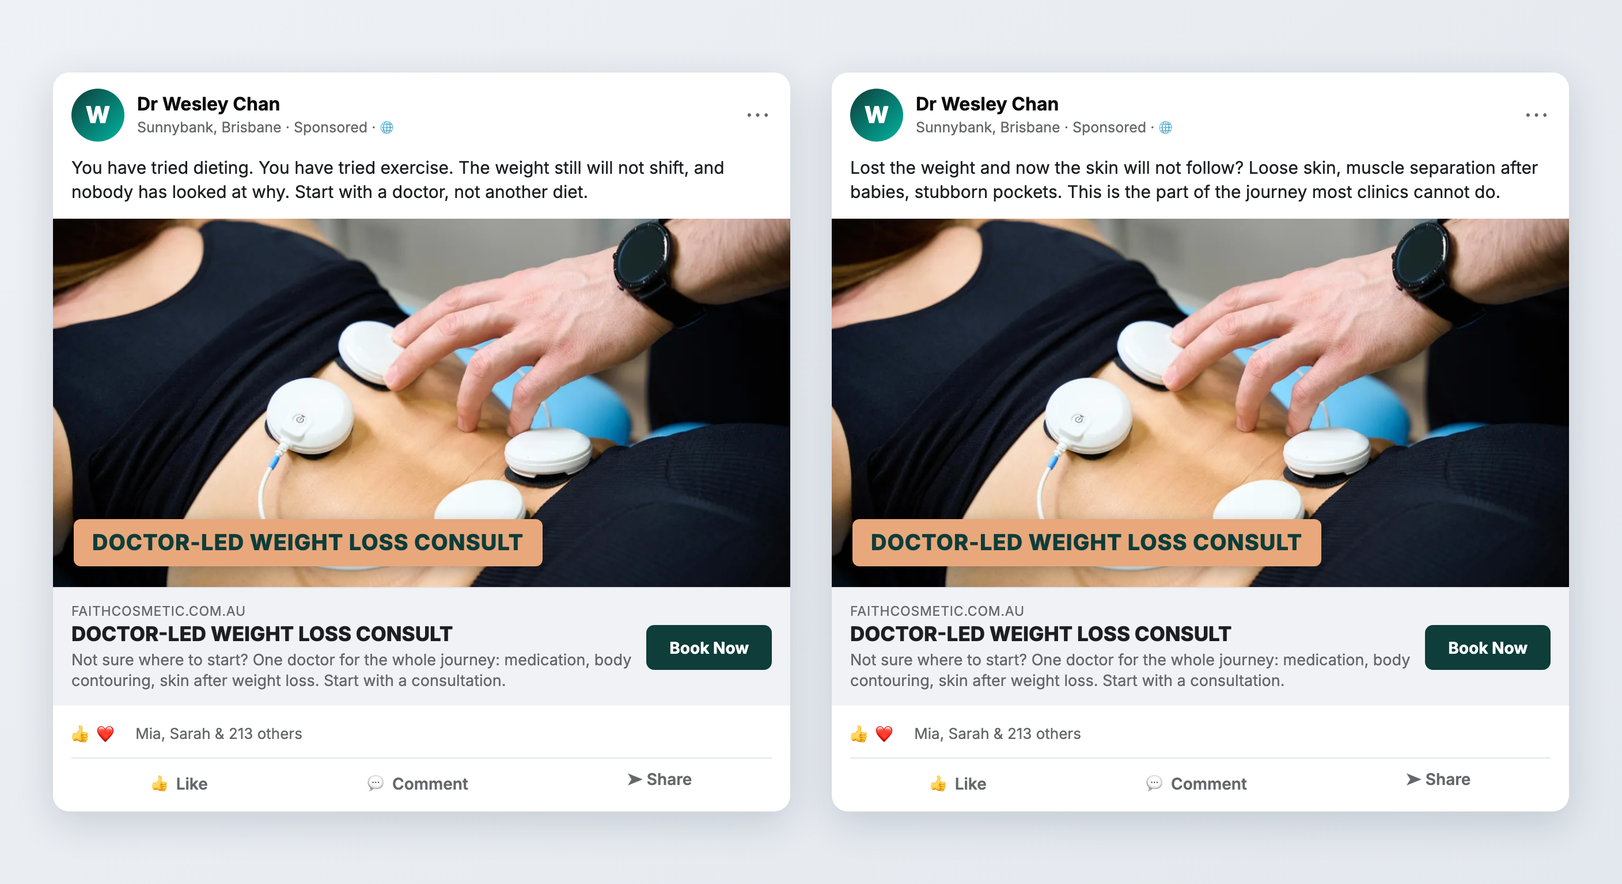
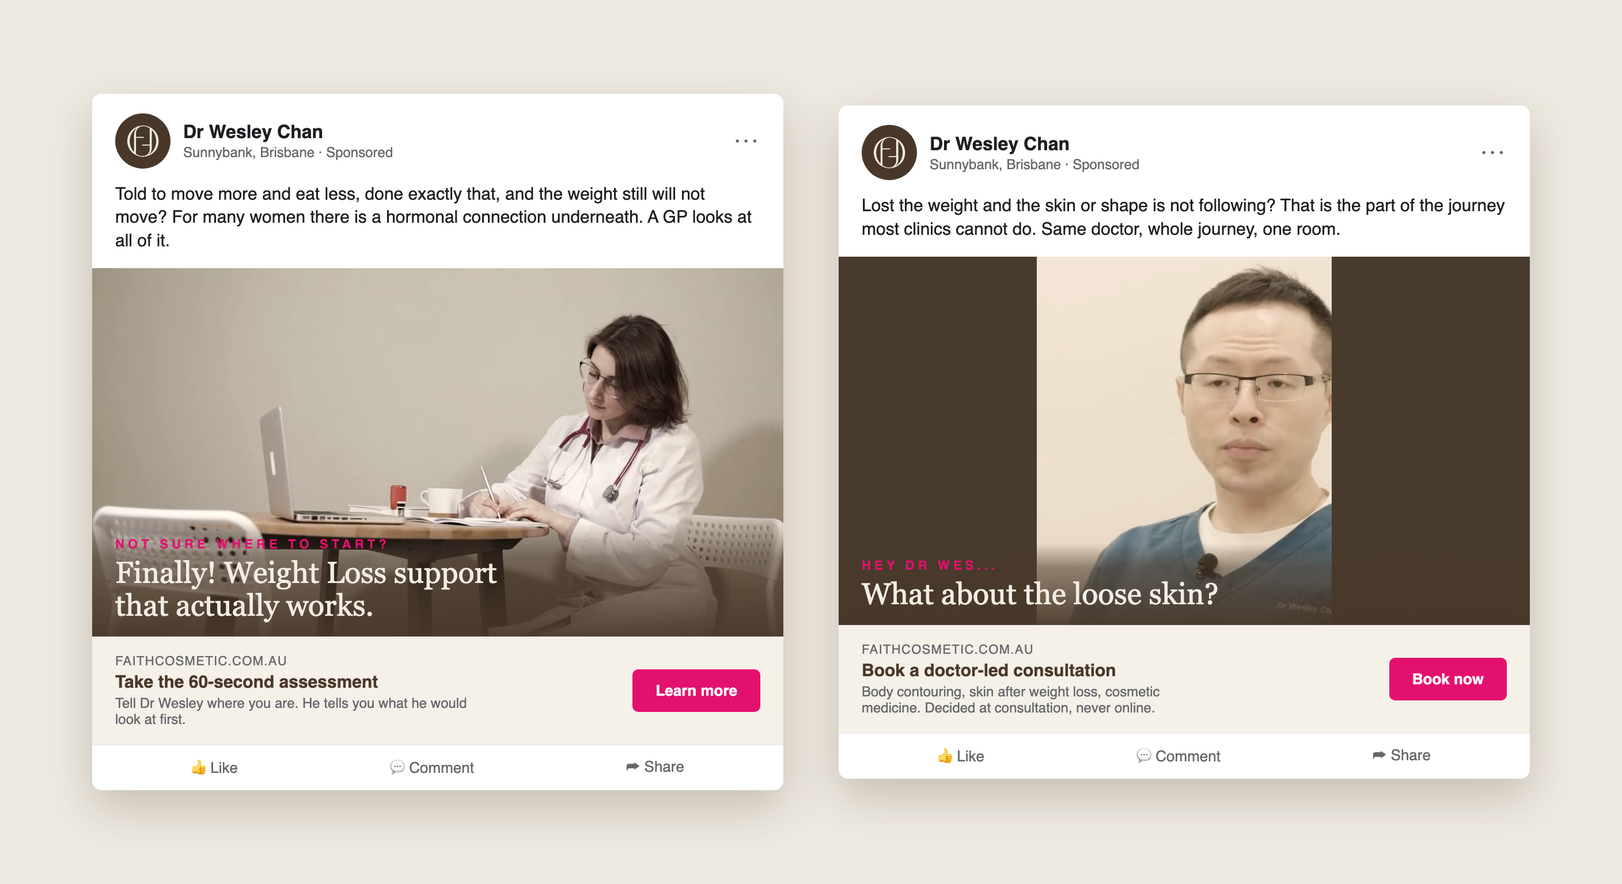
Deck: wired website, relief framing, weekly scope in Kellys words, Hey Dr Wes series, Dr Wesley, new screenshot and ad mockups, comparator pass

diff --git a/index.html b/index.html
@@ -165,7 +165,7 @@ p { font-size:0.9rem; color:var(--text-mid); font-weight:300; line-height:1.8; }
       </div>
       <div style="display:grid; grid-template-columns:1fr 1fr; gap:1rem;">
         <div class="card" style="display:flex; gap:0.8rem; align-items:flex-start; padding:1rem;"><span style="color:var(--teal-bright); font-size:1.1rem; font-weight:700; flex-shrink:0;">&#10003;</span><p style="font-size:0.82rem; color:var(--text-mid); line-height:1.5; margin:0;">A GP and cosmetic doctor. FRACGP, FACCSM (Med), PGCertUS, consultant at a public hospital, senior lecturer at UQ. Twelve years in medicine, more than five in cosmetic. Nobody at a beauty clinic can match that.</p></div>
-        <div class="card" style="display:flex; gap:0.8rem; align-items:flex-start; padding:1rem;"><span style="color:var(--teal-bright); font-size:1.1rem; font-weight:700; flex-shrink:0;">&#10003;</span><p style="font-size:0.82rem; color:var(--text-mid); line-height:1.5; margin:0;">The whole weight loss journey under one doctor: medication and diet review, work alongside a bariatric surgeon, then the skin and muscle afterwards. "A one stop shop weight loss service from the moment the patient come in to whatever service they need."</p></div>
+        <div class="card" style="display:flex; gap:0.8rem; align-items:flex-start; padding:1rem;"><span style="color:var(--teal-bright); font-size:1.1rem; font-weight:700; flex-shrink:0;">&#10003;</span><p style="font-size:0.82rem; color:var(--text-mid); line-height:1.5; margin:0;">The whole weight loss journey under one doctor: medication and diet review, work alongside a bariatric surgeon, then the skin and muscle afterwards.</p></div>
         <div class="card" style="display:flex; gap:0.8rem; align-items:flex-start; padding:1rem;"><span style="color:var(--teal-bright); font-size:1.1rem; font-weight:700; flex-shrink:0;">&#10003;</span><p style="font-size:0.82rem; color:var(--text-mid); line-height:1.5; margin:0;">Evolve X. Fat, skin and muscle in one session. In your words: beauty clinics can have the machine but cannot prescribe, and GPs can prescribe but do not have the machine. Not many do both.</p></div>
         <div class="card" style="display:flex; gap:0.8rem; align-items:flex-start; padding:1rem;"><span style="color:var(--teal-bright); font-size:1.1rem; font-weight:700; flex-shrink:0;">&#10003;</span><p style="font-size:0.82rem; color:var(--text-mid); line-height:1.5; margin:0;">The medical side other clinics cannot touch: skin checks and skin cancer excision, acne, pigmentation and melasma, anti-wrinkle, fillers and skin boosters. Medical and cosmetic in one room.</p></div>
         <div class="card" style="display:flex; gap:0.8rem; align-items:flex-start; padding:1rem;"><span style="color:var(--teal-bright); font-size:1.1rem; font-weight:700; flex-shrink:0;">&#10003;</span><p style="font-size:0.82rem; color:var(--text-mid); line-height:1.5; margin:0;">A business built on referrals. Patients and colleagues send people to you. Packages already selling at $250 a session on a course, $1,000 to $2,000 plus per client.</p></div>
@@ -186,7 +186,7 @@ p { font-size:0.9rem; color:var(--text-mid); font-weight:300; line-height:1.8; }
       <div class='card' style='padding:1.1rem; margin-bottom:0.7rem;'><h4>1. Become the Doctor Brisbane Goes To for Weight Loss</h4><p>One doctor, one thing, known for it. From the first "I don't know where to start" to the skin and muscle after the weight is gone. Everything else you do sits underneath that.</p></div>
       <div class='card' style='padding:1.1rem; margin-bottom:0.7rem;'><h4>2. One System, Not Three</h4><p>Your own GHL, in your name, doing what you were about to pay Podium and Phorest to do on top of it: booking, payments, CRM, follow-up, the assistant on the inbox. Nothing disjointed, nothing you run by hand.</p></div>
       <div class='card' style='padding:1.1rem; margin-bottom:0.7rem;'><h4>3. Stop Being the Coordinating Person</h4><p>Enquiries answered inside a minute, consults booked, plans followed up, reviews asked for, all without a VA who has to be found, trained and replaced.</p></div>
-      <div class='card' style='padding:1.1rem; margin-bottom:0.7rem;'><h4>4. Bring a Skin Aesthetician onto the Team and Book Them Out</h4><p>The skin side runs on their hours, not yours. You stay on weight loss, body and the medical work. That is how the business grows past the hours you have.</p></div>
+      <div class='card' style='padding:1.1rem; margin-bottom:0.7rem;'><h4>4. Bring a Skin Aesthetician onto the Team and Book Them Out</h4><p>The skin side runs on their hours, leaving yours for the medicine. You stay on weight loss, body and the medical work. That is how the business grows past the hours you have.</p></div>
       <div class='card' style='padding:1.1rem;'><h4>5. Protect Your Hours</h4><p>You are part time in this clinic with hospital work alongside it. The business has to keep generating and following up on the days you are not there, so growth never means more admin.</p></div>
     </div>
   </div>
@@ -201,7 +201,7 @@ p { font-size:0.9rem; color:var(--text-mid); font-weight:300; line-height:1.8; }
       <div>
         <span class="task-num">Task One</span>
         <h2>Branding & <span class="teal">Positioning</span></h2>
-        <div class="quote"><p>"We can offer a one stop shop weight loss service from the moment the patient come in to whatever service they need."</p></div>
+        <div class="quote"><p>"I try to combine a medical and a cosmetic perspective together in my clinic."</p></div>
         <ul style="list-style:none; padding:0; margin:0;">
           <li style="display:flex; gap:0.5rem; font-size:0.82rem; color:var(--text-mid); line-height:1.6; margin-bottom:0.4rem;"><span style="color:var(--teal-bright); flex-shrink:0;">&#8226;</span> The brand becomes you. "Dr Wesley Chan": doctor-led skin, body and health. A GP with cosmetic skills, in your own words. An educational personal brand, the way one Sydney surgeon became known for one procedure over years, so Brisbane comes to know you for weight loss and body transformation.</li>
           <li style="display:flex; gap:0.5rem; font-size:0.82rem; color:var(--text-mid); line-height:1.6; margin-bottom:0.4rem;"><span style="color:var(--teal-bright); flex-shrink:0;">&#8226;</span> Your bio today lists credentials. The new one speaks to the person who does not know where to start. Credentials move to a highlight where they do their job: trust.</li>
@@ -229,18 +229,18 @@ p { font-size:0.9rem; color:var(--text-mid); font-weight:300; line-height:1.8; }
         <h2>Website & <span class="teal">SEO</span></h2>
         <div class="quote"><p>"I'm rebranding my logo and I'm looking at rebranding a website and also engaging a new social media manager. So something is on the way."</p></div>
         <ul style="list-style:none; padding:0; margin:0;">
-          <li style="display:flex; gap:0.5rem; font-size:0.82rem; color:var(--text-mid); line-height:1.6; margin-bottom:0.4rem;"><span style="color:var(--teal-bright); flex-shrink:0;">&#8226;</span> The current site sells a weight loss programme and a machine. It does not sell you. Brisbane's complete body transformation solution, led by a doctor: that is the headline the new site earns.</li>
-          <li style="display:flex; gap:0.5rem; font-size:0.82rem; color:var(--text-mid); line-height:1.6; margin-bottom:0.4rem;"><span style="color:var(--teal-bright); flex-shrink:0;">&#8226;</span> Built around concerns, not a menu: Skin, Body, Weight and metabolic health, Cosmetic medicine. One action on every page: book a consultation with Dr Wesley. The "I don't know where to start" form in the hero, feeding your CRM.</li>
-          <li style="display:flex; gap:0.5rem; font-size:0.82rem; color:var(--text-mid); line-height:1.6; margin-bottom:0.4rem;"><span style="color:var(--teal-bright); flex-shrink:0;">&#8226;</span> Priority one, before a dollar of ad spend, because we never drive traffic to a site that is being replaced. An education hub for the videos, and a Dr Wes page that answers who he is, what he helps with, and why this is not a standard cosmetic clinic.</li>
-          <li style="display:flex; gap:0.5rem; font-size:0.82rem; color:var(--text-mid); line-height:1.6; margin-bottom:0.4rem;"><span style="color:var(--teal-bright); flex-shrink:0;">&#8226;</span> SEO and GEO from day one of the rebuild, not bolted on after: concern pages, doctor profile and qualifications, FAQs, Sunnybank relevance, Google Business, schema, medical authorship. Every AHPRA rule applied before it goes live.</li>
-          <li style="display:flex; gap:0.5rem; font-size:0.82rem; color:var(--text-mid); line-height:1.6; margin-bottom:0.4rem;"><span style="color:var(--teal-bright); flex-shrink:0;">&#8226;</span> The concept is built. Kelly's mockup, using the photography from your current site, is linked below. Your new logo and colours drop in when you send them.</li>
+          <li style="display:flex; gap:0.5rem; font-size:0.82rem; color:var(--text-mid); line-height:1.6; margin-bottom:0.4rem;"><span style="color:var(--teal-bright); flex-shrink:0;">&#8226;</span> The current site sells a weight loss programme and a machine. It does not sell you. Brisbane's complete body transformation solution, led by Dr Wesley Chan: that is the headline the new site earns.</li>
+          <li style="display:flex; gap:0.5rem; font-size:0.82rem; color:var(--text-mid); line-height:1.6; margin-bottom:0.4rem;"><span style="color:var(--teal-bright); flex-shrink:0;">&#8226;</span> Built around concerns: Skin, Body, Weight and metabolic health, Cosmetic medicine, each one a tile on the hero. Two doors on every page: the "Where do I start?" assessment for the person who does not know yet, and a quiet booking line for the one who does. Both feed your CRM.</li>
+          <li style="display:flex; gap:0.5rem; font-size:0.82rem; color:var(--text-mid); line-height:1.6; margin-bottom:0.4rem;"><span style="color:var(--teal-bright); flex-shrink:0;">&#8226;</span> A pretty website earns nothing on its own. We build the whole thing, fully wired: meta tags, conversion pixel and Google tag firing, the back end connected to your CRM so every enquiry is captured, tagged and followed up. It captures data and sends you leads, and it is priority one, before a dollar of ad spend.</li>
+          <li style="display:flex; gap:0.5rem; font-size:0.82rem; color:var(--text-mid); line-height:1.6; margin-bottom:0.4rem;"><span style="color:var(--teal-bright); flex-shrink:0;">&#8226;</span> Structured for SEO and GEO from the first line of code: concern pages, doctor profile, FAQs, Sunnybank relevance, Google Business, schema, an education hub for the videos. Every AHPRA rule applied before it goes live.</li>
+          <li style="display:flex; gap:0.5rem; font-size:0.82rem; color:var(--text-mid); line-height:1.6; margin-bottom:0.4rem;"><span style="color:var(--teal-bright); flex-shrink:0;">&#8226;</span> The concept is built and linked below, in your new logo and colours, with your own footage in it. Stock photography is placeholder until we film you.</li>
         </ul>
         <a href="https://clinic-catalyst-au.github.io/wesley-chan/website.html" target="_blank" class="demo-link">Open the website concept &#8594;</a>
       </div>
       <div>
         <div class="browser-frame">
           <div class="browser-bar"><span class="browser-dot r"></span><span class="browser-dot y"></span><span class="browser-dot g"></span></div>
-          <img src="assets/website-real-screenshot.png" alt="faithcosmetic.com.au current homepage">
+          <img src="assets/website-concept-screenshot.png" alt="Dr Wesley Chan website concept, new brand">
         </div>
       </div>
     </div>
@@ -255,7 +255,7 @@ p { font-size:0.9rem; color:var(--text-mid); font-weight:300; line-height:1.8; }
       <div>
         <span class="task-num">Task Three</span>
         <h2>Offer & <span class="teal">Pricing Strategy</span></h2>
-        <div class="quote"><p>"Our recommended session is about six to eight times to see the initial result. So we did do a package of four sessions to give a discount for patients to start with."</p></div>
+        <div class="quote"><p>"Our recommended session is about six to eight times to see the initial result."</p></div>
         <p style="font-size:0.78rem; color:var(--text-mid); margin-bottom:0.7rem;">Three doors, all of them starting with a doctor, none of them a discount:</p>
         <div style="background:rgba(0,180,160,0.06); border:1px solid rgba(0,180,160,0.25); border-radius:6px; padding:0.6rem 0.85rem; margin-bottom:0.5rem;">
           <p style="font-size:0.68rem; color:var(--teal-bright); font-family:'Montserrat',sans-serif; font-weight:700; letter-spacing:0.08em; text-transform:uppercase; margin-bottom:0.15rem;">Start Here</p>
@@ -263,11 +263,11 @@ p { font-size:0.9rem; color:var(--text-mid); font-weight:300; line-height:1.8; }
         </div>
         <div style="background:rgba(0,180,160,0.06); border:1px solid rgba(0,180,160,0.25); border-radius:6px; padding:0.6rem 0.85rem; margin-bottom:0.5rem;">
           <p style="font-size:0.68rem; color:var(--teal-bright); font-family:'Montserrat',sans-serif; font-weight:700; letter-spacing:0.08em; text-transform:uppercase; margin-bottom:0.15rem;">The Faith Body Journey</p>
-          <p style="font-size:0.78rem; color:var(--text-mid); line-height:1.45; margin:0;">Consultation, goals, assessment, recommended course, progress, review, maintenance. The course you already recommend, six to eight sessions, formalised: $250 a session on a package against $400 single, $1,000 to $1,600 for four, $1,600 to $2,000 plus for eight. Body composition inside a health plan, never a weight-loss shortcut</p>
+          <p style="font-size:0.78rem; color:var(--text-mid); line-height:1.45; margin:0;">Consultation, goals, assessment, recommended course, progress, review, maintenance. The course you already recommend, six to eight sessions, formalised: $250 a session on a package against $400 single, $1,000 to $1,600 for four, $1,600 to $2,000 plus for eight. Body composition inside a health plan</p>
         </div>
         <div style="background:rgba(232,168,124,0.08); border:1px solid rgba(232,168,124,0.3); border-radius:6px; padding:0.6rem 0.85rem; margin-bottom:0.8rem;">
           <p style="font-size:0.68rem; color:var(--peach); font-family:'Montserrat',sans-serif; font-weight:700; letter-spacing:0.08em; text-transform:uppercase; margin-bottom:0.15rem;">After the Weight</p>
-          <p style="font-size:0.78rem; color:var(--text-mid); line-height:1.45; margin:0;">The part of the journey most clinics cannot do: skin laxity, muscle separation, fat dissolving, scar revision, then maintenance. <strong style="color:var(--teal-bright);">Priced at consultation</strong>. We do not compete on price: assessment, medical understanding, suitability, planning, continuity. Compliant third-party finance to investigate for the $1,000 to $2,000 plus journeys</p>
+          <p style="font-size:0.78rem; color:var(--text-mid); line-height:1.45; margin:0;">The part of the journey most clinics cannot do: skin laxity, muscle separation, fat dissolving, scar revision, then maintenance. <strong style="color:var(--teal-bright);">Priced at consultation</strong>. We do not compete on price: assessment, medical understanding, suitability, planning, continuity. Compliant third-party finance for the larger journeys</p>
         </div>
         <a href="https://clinic-catalyst-au.github.io/wesley-chan/assessment.html" target="_blank" class="demo-link">Try the Where Do I Start Demo &#8594;</a>
       </div>
@@ -395,7 +395,7 @@ p { font-size:0.9rem; color:var(--text-mid); font-weight:300; line-height:1.8; }
         <h2>"Where Do <span class="peach">I Start?"</span></h2>
         <div class="quote"><p>"There are people who come to see you just to start losing weight, because they don't know where to start."</p></div>
         <ul style="list-style:none; padding:0; margin:0;">
-          <li style="display:flex; gap:0.5rem; font-size:0.82rem; color:var(--text-mid); line-height:1.6; margin-bottom:0.4rem;"><span style="color:var(--teal-bright); flex-shrink:0;">&#8226;</span> Six questions in your patients' words: where they are in the journey, what they have tried, what is bothering them most, what they want back, when. Then a note from Dr Wes on what he would look at first</li>
+          <li style="display:flex; gap:0.5rem; font-size:0.82rem; color:var(--text-mid); line-height:1.6; margin-bottom:0.4rem;"><span style="color:var(--teal-bright); flex-shrink:0;">&#8226;</span> Six questions in your patients' words: where they are in the journey, what they have tried, what is bothering them most, what they want back, when. Then a note from Dr Wesley on what he would look at first</li>
           <li style="display:flex; gap:0.5rem; font-size:0.82rem; color:var(--text-mid); line-height:1.6; margin-bottom:0.4rem;"><span style="color:var(--teal-bright); flex-shrink:0;">&#8226;</span> Captures name, email and phone - every completion is a warm lead with concerns already mapped</li>
           <li style="display:flex; gap:0.5rem; font-size:0.82rem; color:var(--text-mid); line-height:1.6; margin-bottom:0.4rem;"><span style="color:var(--teal-bright); flex-shrink:0;">&#8226;</span> Lives on website, Linktree, Instagram bio - works 24/7</li>
           <li style="display:flex; gap:0.5rem; font-size:0.82rem; color:var(--text-mid); line-height:1.6; margin-bottom:0.4rem;"><span style="color:var(--teal-bright); flex-shrink:0;">&#8226;</span> Funnels into a doctor-led consultation booking. It is the top of the funnel, the link in the bio, and the first thing every ad points at</li>
@@ -433,7 +433,7 @@ p { font-size:0.9rem; color:var(--text-mid); font-weight:300; line-height:1.8; }
         </div>
         <ul style="list-style:none; padding:0; margin:0;">
           <li style="display:flex; gap:0.5rem; font-size:0.78rem; color:var(--text-mid); line-height:1.5; margin-bottom:0.3rem;"><span style="color:var(--teal-bright); flex-shrink:0;">&#8226;</span> Public body results do the convincing before anyone books. Your competitors show a machine; you show a tummy at session one and session eight</li>
-          <li style="display:flex; gap:0.5rem; font-size:0.78rem; color:var(--text-mid); line-height:1.5; margin-bottom:0.3rem;"><span style="color:var(--teal-bright); flex-shrink:0;">&#8226;</span> The gated gallery is a consult tool, not an ad. Code shared in the room</li>
+          <li style="display:flex; gap:0.5rem; font-size:0.78rem; color:var(--text-mid); line-height:1.5; margin-bottom:0.3rem;"><span style="color:var(--teal-bright); flex-shrink:0;">&#8226;</span> The gated gallery is a consult tool, shown after consultation. Code shared in the room</li>
         </ul>
         <a href="https://clinic-catalyst-au.github.io/wesley-chan/injectables.html" target="_blank" class="demo-link">Open the gallery demo (code: wesley-chan2026) &#8594;</a>
       </div>
@@ -662,7 +662,7 @@ p { font-size:0.9rem; color:var(--text-mid); font-weight:300; line-height:1.8; }
       </div>
       <div class="card" style="padding:1rem; display:flex; gap:1rem; align-items:center;">
         <img src="assets/yourpart-clinic.png" alt="Clinic" style="width:120px; height:120px; object-fit:cover; border-radius:6px; flex-shrink:0;">
-        <div><h4>Create an Experience</h4><p>One filming session a month. Someone interviewing you, not you reading a script. That single session feeds everything for weeks.</p></div>
+        <div><h4>Create an Experience</h4><p>One filming day a month at the clinic. The "Hey Dr Wes..." series: the questions everyone asks, filmed as if we have interrupted you between patients, so Brisbane gets to know your knowledge and your candour. That single day feeds a post every day and up to three reels a week.</p></div>
       </div>
       <div class="card" style="padding:1rem; display:flex; gap:1rem; align-items:center;">
         <img src="assets/yourpart-rebook.png" alt="Rebook" style="width:120px; height:120px; object-fit:cover; border-radius:6px; flex-shrink:0;">
@@ -707,18 +707,18 @@ p { font-size:0.9rem; color:var(--text-mid); font-weight:300; line-height:1.8; }
       <div>
         <p class="label">Your path forward</p>
         <h2>One month to install it.<br><span class="teal">Then we run it. One contact.</span></h2>
-        <p style="margin-bottom:1.5rem;">You told us you are not good at IT, you do not have the time, and you do not want three vendors to coordinate. So this is not a plan and a login. We install the whole system on your business in a month, then we run your paid ads and your organic strategy in-house, and you deal with one person. Your only job is to show up for the monthly filming and answer the questions we send you each week.</p>
+        <p style="margin-bottom:1.5rem;">You told us you are not good at IT, you do not have the time, and you do not want three vendors to coordinate. This is the moment it gets easier. You have found the people who look after all of it, and you go back to being the doctor. We install the whole system in a month, then we run it.</p>
         <div class="faq-item">
           <p class="faq-q">Month one - the install intensive</p>
-          <p class="faq-a">Week one: scope, positioning, offer, your own GHL set up in your name. Week two: the system installed, the assistant on the inbox, follow-up ladder, "Where do I start?" live, and you shown how it all works. Week three: Meta and Google campaigns built and launched. Week four: we come to the clinic and film you, the positioning content that makes you the weight loss doctor in Brisbane, your socials set up and running with it, questions answered.</p>
+          <p class="faq-a">Week one: scope, positioning, offer, your own GHL set up in your name. Week two: your website built and wired (meta tags, pixel, SEO and GEO, back end into your CRM), the assistant on the inbox, follow-up ladder, "Where do I start?" live. Week three: Meta and Google campaigns built and launched. Week four: we come to the clinic and film you, the positioning content that makes you the weight loss doctor in Brisbane, your socials set up and running with it, questions answered.</p>
         </div>
         <div class="faq-item">
           <p class="faq-q">From month two - we run it</p>
-          <p class="faq-a">We come to the clinic once a month and batch film with you, then we manage everything: paid ads and organic, all in-house, one person as your contact. Your footage becomes the month's reels, ads, emails and Google content. Campaigns managed, follow-up monitored, reporting every Monday. Ad spend sits in your own account, on top, at a budget we set together.</p>
+          <p class="faq-a">Alicia or Kelly comes to your clinic once a month and films you for the day. That becomes a post every day and up to three edited reels a week, b-roll included, aligned with your paid ads. We manage socials, ads, nurture, client care and appointment follow-up, in-house, one contact. Reporting every Monday. Ad spend in your own account, on top.</p>
         </div>
         <div class="faq-item">
           <p class="faq-q">Your part</p>
-          <p class="faq-a">Show up for the monthly filming session, answer the questions we send you week to week on your phone, and treat the patients who book. That is it.</p>
+          <p class="faq-a">Show up for the monthly filming day, answer the questions we send you on your phone, and treat the patients who book. That is it.</p>
         </div>
       </div>
       <div>
@@ -727,7 +727,7 @@ p { font-size:0.9rem; color:var(--text-mid); font-weight:300; line-height:1.8; }
           <div class="price-tag">$3,500</div>
           <p style="font-size:0.7rem; color:var(--text-faint); margin-top:0.2rem;">+ GST &middot; one payment &middot; payment plan available</p>
           <ul class="includes-list">
-            <li>Your positioning, bio and website structure</li>
+            <li>Your positioning, Instagram bio overhaul and website, built and wired</li>
             <li>Your own GHL: booking, payments, pipeline</li>
             <li>The assistant on your inbox, day and night</li>
             <li>Treatment-plan follow-up ladder, SMS and email</li>
@@ -739,7 +739,7 @@ p { font-size:0.9rem; color:var(--text-mid); font-weight:300; line-height:1.8; }
           </ul>
           <p class="price-period" style="margin-top:1.2rem;">Then, from month two</p>
           <div class="price-tag" style="font-size:2rem;">$1,000 <span style="font-size:0.9rem; color:var(--text-faint); font-weight:400;">per week + GST</span></div>
-          <p style="font-size:0.7rem; color:var(--text-faint); margin-top:0.2rem;">Monthly batch filming with you, then we manage everything: paid ads + organic, in-house, one contact. Ad spend on top, in your own account. No lock-in.</p>
+          <p style="font-size:0.7rem; color:var(--text-faint); margin-top:0.2rem;">A filming day at your clinic each month. A post every day, up to three edited reels a week with b-roll. Socials, ads, nurture, client care and appointment follow-up, in-house, one contact. Ad spend on top, in your own account. No lock-in.</p>
           <div class="discount-badge">One system. One invoice. One person.</div>
         </div>
       </div>
